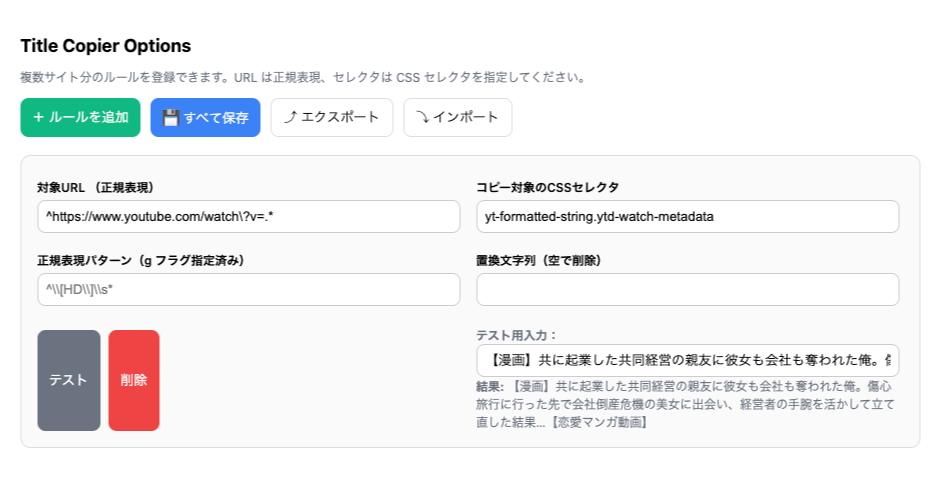
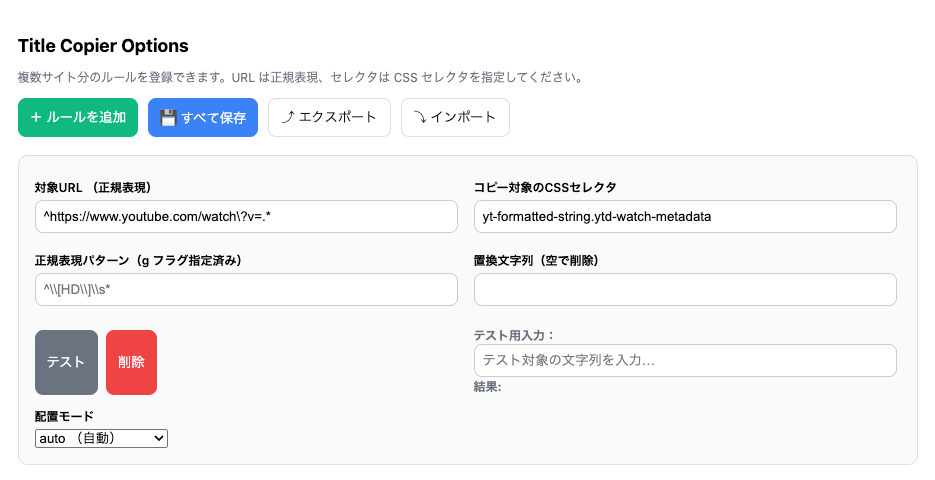
Release v1.1.2 – add placement setting and fix heading issues

diff --git a/README.md b/README.md
@@ -5,13 +5,14 @@
 
 ---
 
-## 主な機能（v1.1.1 現在）
+## 主な機能（v1.1.2 現在）
 
 - **複数サイト対応**: 複数ルールを登録してサイトごとに自動適用  
 - **SPA対応**: YouTubeなどの動的サイトでも要素を検出  
 - **正規表現置換**: コピー前に不要な文字を削除・整形  
 - **JSONインポート/エクスポート**: 設定のバックアップや共有が簡単  
 - **オプションページの新UI**: 正規表現テスト機能つき  
+- **配置モード設定**: inside / after / auto から選択可能  
 
 ---
 
@@ -30,6 +31,7 @@
    - 対象URL（正規表現）  
    - コピー対象セレクタ  
    - 正規表現パターン・置換文字列  
+   - **配置モード**: inside / after / auto  
 
 2. ページを開くとコピー用ボタンが自動で追加されます
 
@@ -46,6 +48,14 @@
   - CSSセレクタ: `yt-formatted-string.ytd-watch-metadata`
   - 正規表現: （不要なら空欄）
   - 置換文字列: （不要なら空欄）
+  - 配置モード: `after` （SPA対応のため推奨）
+
+ **Wikipedia の記事タイトルをコピーしたい場合**  
+  - 対象URL: `^https://ja\.wikipedia\.org/wiki/.*`
+  - CSSセレクタ: `span.mw-page-title-main`
+  - 正規表現: （不要なら空欄）
+  - 置換文字列: （不要なら空欄）
+  - 配置モード: `inside`
 
 ---
 
@@ -55,9 +65,10 @@
 - **インポート**: JSONファイルを選択してルールを復元  
 
 ---
+
 ## スクリーンショット
 
-### オプションページ（v1.1.0）
+### オプションページ（v1.1.2）
 ![オプションページ](/screenshot/screenshot_01.png)
 
 ---

diff --git a/CHANGELOG.md b/CHANGELOG.md
@@ -2,6 +2,21 @@
 All notable changes to this project will be documented in this file.
 
 
+## [1.1.2] - 2025-09-06
+### Added
+- 新しい設定項目 **placement (inside / after / auto)** を追加  
+  - inside: タイトル要素内にボタンを配置（見出しタグなどで改行しにくい）  
+  - after: タイトル要素直後にボタンを配置（SPA対応の再配置あり）  
+  - auto: 要素に応じて自動判定（見出しタグ → inside、それ以外は after）
+
+### Fixed
+- 見出しタグ (`h3.panel-title` など) で **ボタンが改行されてしまう問題** を修正  
+  - placement=inside の導入により、タイトル内で自然に横並びになるよう改善
+- SPA サイトでのタイトル差し替え時に **アンカー位置が乱れないよう安定化**
+
+### Docs
+- README を v1.1.2 に更新（placement 設定の説明とサンプルを追加）
+
 ## [1.1.1] - 2025-09-05
 ### Fixed
 - SPA/自動再生時にタイトルの前にボタンが来てしまう問題を修正  
